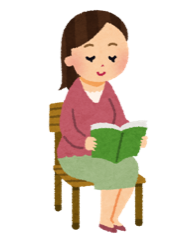
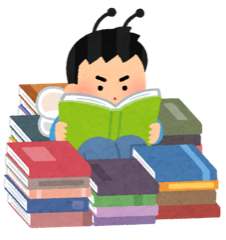
update notion.css 외 2개

diff --git a/app/notion.css b/app/notion.css
@@ -230,10 +230,17 @@ input,
 .nextra-mobile-nav a,
 .nextra-mobile-nav button {
   border-radius: 4px !important;
-  color: var(--notion-text) !important;
+  color: #1f1f1c !important;
   font-size: 14px;
-  font-weight: 450;
+  font-weight: 500;
   line-height: 1.45;
+}
+
+.dark .nextra-sidebar a,
+.dark .nextra-sidebar button,
+.dark .nextra-mobile-nav a,
+.dark .nextra-mobile-nav button {
+  color: rgba(255, 255, 255, 0.94) !important;
 }
 
 .nextra-sidebar a:hover,
@@ -253,14 +260,22 @@ input,
   font-weight: 650;
 }
 
-/* Collapsed-section parent buttons (e.g., Lotto, Movie Review) — slightly lighter to make active items stand out */
+/* Collapsed-section parent buttons (e.g., Lotto, Movie Review) — keep readable, just one notch lighter */
 .nextra-sidebar li:not(.active) > button[aria-expanded] {
-  color: var(--notion-text-soft) !important;
+  color: #3a3a36 !important;
   font-weight: 500;
 }
 
 .nextra-sidebar li:not(.active) > button[aria-expanded]:hover {
-  color: var(--notion-text) !important;
+  color: #1f1f1c !important;
+}
+
+.dark .nextra-sidebar li:not(.active) > button[aria-expanded] {
+  color: rgba(255, 255, 255, 0.78) !important;
+}
+
+.dark .nextra-sidebar li:not(.active) > button[aria-expanded]:hover {
+  color: rgba(255, 255, 255, 0.94) !important;
 }
 
 .nextra-sidebar-footer {
